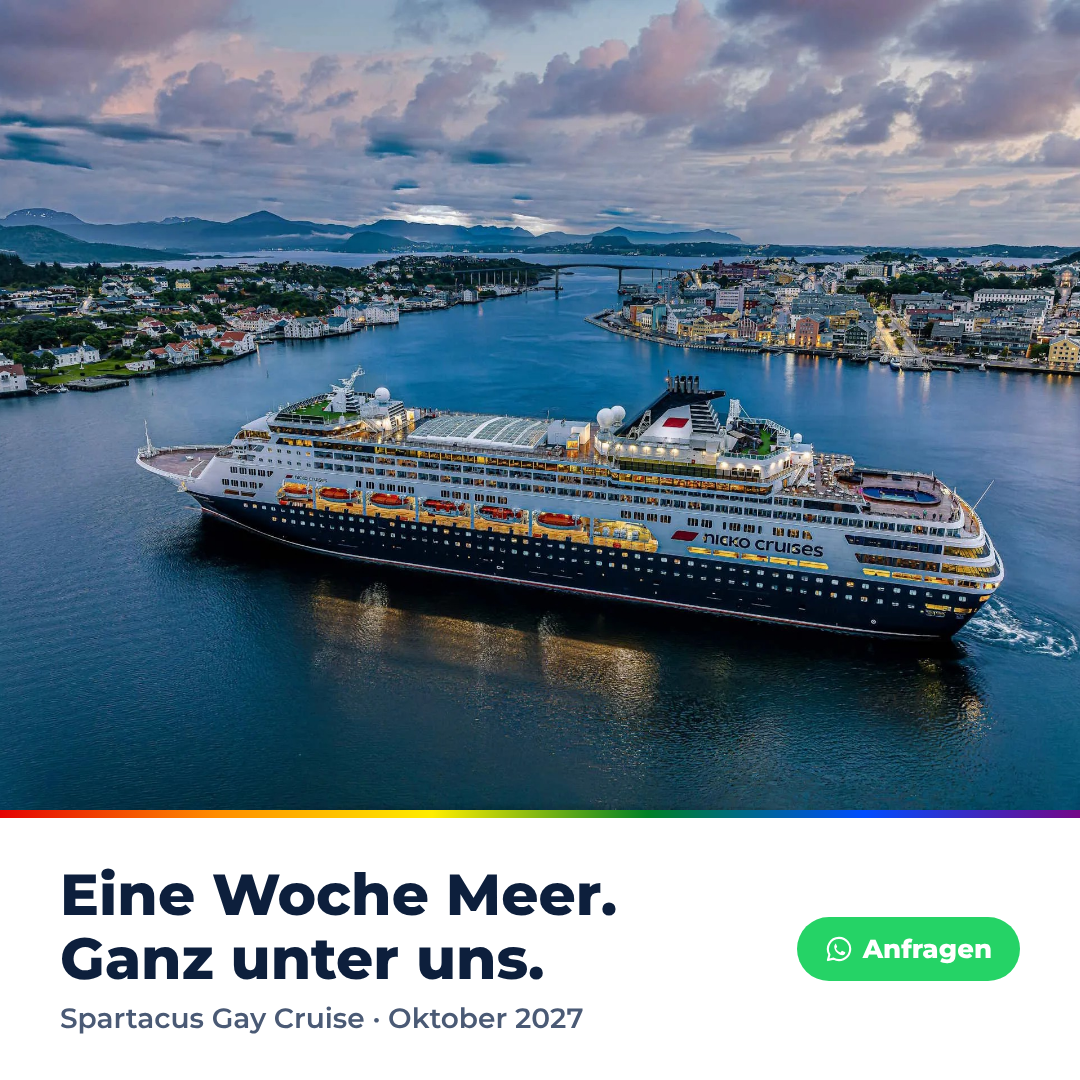
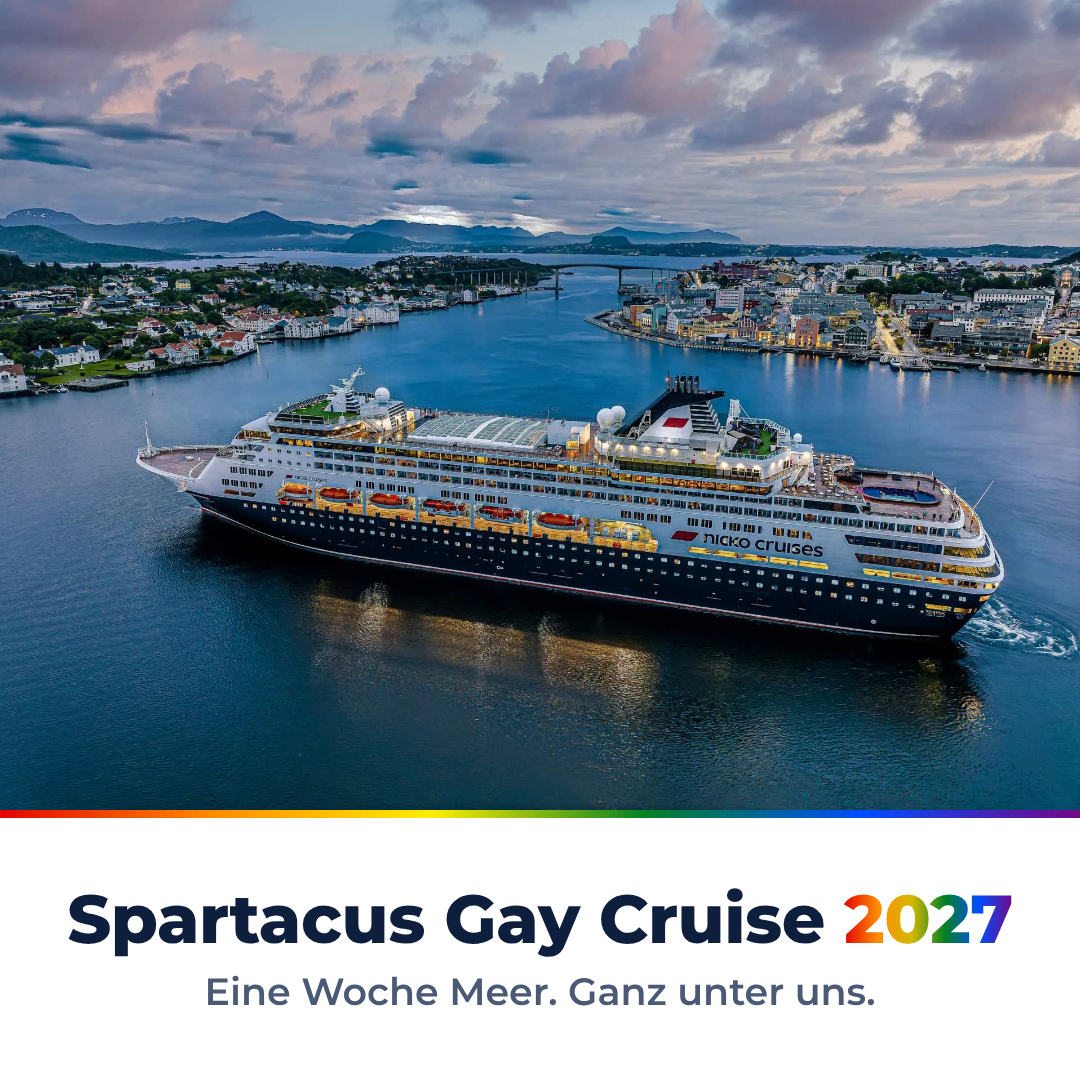
Spartacus 1:1 creatives: drop CTA, emphasize brand name
Claude-Session: https://claude.ai/code/session_01WaKFhgz8ZvCc2eJNCdq1KM

Changed region(s): [[0.0611, 0.7944, 0.9472, 0.9778]]

diff --git a/creatives/spartacus-cruise/01-schiff-1x1.html b/creatives/spartacus-cruise/01-schiff-1x1.html
@@ -5,14 +5,14 @@
 body{width:1080px;height:1080px;font-family:Montserrat,sans-serif;color:#0d1f3c;overflow:hidden;background:#fff}
 .photo{position:absolute;left:0;top:0;width:1080px;height:810px;object-fit:cover;object-position:50% 62%}
 .rainbow{position:absolute;left:0;top:810px;width:1080px;height:8px;background:linear-gradient(90deg,#e40303,#ff8c00,#ffed00,#008026,#004dff,#750787)}
-.panel{position:absolute;left:0;top:818px;width:1080px;height:262px;padding:0 60px;display:flex;align-items:center;justify-content:space-between;gap:30px}
-.h{font-weight:800;font-size:58px;line-height:1.1}
-.k{font-weight:600;font-size:28px;color:#4a5a75;margin-top:10px}
-.cta{flex:none;display:inline-flex;align-items:center;gap:10px;background:#25D366;color:#fff;border-radius:50px;padding:16px 28px;font-weight:800;font-size:26px}
+.panel{position:absolute;left:0;top:818px;width:1080px;height:262px;display:flex;flex-direction:column;align-items:center;justify-content:center;text-align:center}
+.brand{font-weight:800;font-size:68px;line-height:1.05;letter-spacing:-.5px}
+.brand span{background:linear-gradient(90deg,#e40303,#ff8c00,#d4b800,#008026,#004dff,#750787);-webkit-background-clip:text;background-clip:text;color:transparent}
+.h{font-weight:600;font-size:38px;color:#4a5a75;margin-top:14px}
 </style></head><body>
 <img class="photo" src="schiff.jpg"><div class="rainbow"></div>
 <div class="panel">
-  <div><div class="h">Eine Woche Meer.<br>Ganz unter uns.</div><div class="k">Spartacus Gay Cruise · Oktober 2027</div></div>
-  <div class="cta"><svg width="28" height="28" viewBox="0 0 48 48" fill="none" stroke="#fff" stroke-width="3.6" stroke-linejoin="round"><path d="M24 5a19 19 0 0 0-16.4 28.6L5 43l9.7-2.5A19 19 0 1 0 24 5z"/><path fill="#fff" stroke="none" d="M17.6 14.6c.5 0 1 0 1.3.8l1.8 4.3c.2.4.1.9-.2 1.3l-1.3 1.6c-.3.3-.3.8 0 1.2 1.6 2.7 3.8 4.6 6.6 5.9.4.2.9.1 1.2-.2l1.6-1.9c.3-.4.8-.5 1.3-.3l4.2 2c.5.2.7.7.6 1.2-.3 2.3-2.3 4-4.6 4-7.4-.5-13.7-6.6-14.3-14 0-2.6 1.6-5.7 3.8-5.9z"/></svg>Anfragen</div>
+  <div class="brand">Spartacus Gay Cruise <span>2027</span></div>
+  <div class="h">Eine Woche Meer. Ganz unter uns.</div>
 </div>
 </body></html>

diff --git a/creatives/spartacus-cruise/02-pool-1x1.html b/creatives/spartacus-cruise/02-pool-1x1.html
@@ -5,14 +5,14 @@
 body{width:1080px;height:1080px;font-family:Montserrat,sans-serif;color:#0d1f3c;overflow:hidden;background:#fff}
 .photo{position:absolute;left:0;top:0;width:1080px;height:810px;object-fit:cover;object-position:30% 55%}
 .rainbow{position:absolute;left:0;top:810px;width:1080px;height:8px;background:linear-gradient(90deg,#e40303,#ff8c00,#ffed00,#008026,#004dff,#750787)}
-.panel{position:absolute;left:0;top:818px;width:1080px;height:262px;padding:0 60px;display:flex;align-items:center;justify-content:space-between;gap:30px}
-.h{font-weight:800;font-size:58px;line-height:1.1}
-.k{font-weight:600;font-size:28px;color:#4a5a75;margin-top:10px}
-.cta{flex:none;display:inline-flex;align-items:center;gap:10px;background:#25D366;color:#fff;border-radius:50px;padding:16px 28px;font-weight:800;font-size:26px}
+.panel{position:absolute;left:0;top:818px;width:1080px;height:262px;display:flex;flex-direction:column;align-items:center;justify-content:center;text-align:center}
+.brand{font-weight:800;font-size:68px;line-height:1.05;letter-spacing:-.5px}
+.brand span{background:linear-gradient(90deg,#e40303,#ff8c00,#d4b800,#008026,#004dff,#750787);-webkit-background-clip:text;background-clip:text;color:transparent}
+.h{font-weight:600;font-size:38px;color:#4a5a75;margin-top:14px}
 </style></head><body>
 <img class="photo" src="pool.jpg"><div class="rainbow"></div>
 <div class="panel">
-  <div><div class="h">Einfach mal<br>abschalten.</div><div class="k">Spartacus Gay Cruise · Oktober 2027</div></div>
-  <div class="cta"><svg width="28" height="28" viewBox="0 0 48 48" fill="none" stroke="#fff" stroke-width="3.6" stroke-linejoin="round"><path d="M24 5a19 19 0 0 0-16.4 28.6L5 43l9.7-2.5A19 19 0 1 0 24 5z"/><path fill="#fff" stroke="none" d="M17.6 14.6c.5 0 1 0 1.3.8l1.8 4.3c.2.4.1.9-.2 1.3l-1.3 1.6c-.3.3-.3.8 0 1.2 1.6 2.7 3.8 4.6 6.6 5.9.4.2.9.1 1.2-.2l1.6-1.9c.3-.4.8-.5 1.3-.3l4.2 2c.5.2.7.7.6 1.2-.3 2.3-2.3 4-4.6 4-7.4-.5-13.7-6.6-14.3-14 0-2.6 1.6-5.7 3.8-5.9z"/></svg>Anfragen</div>
+  <div class="brand">Spartacus Gay Cruise <span>2027</span></div>
+  <div class="h">Einfach mal abschalten.</div>
 </div>
 </body></html>
